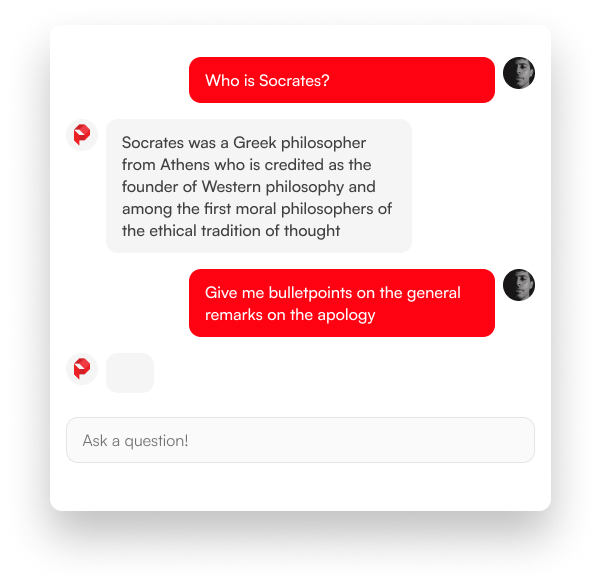
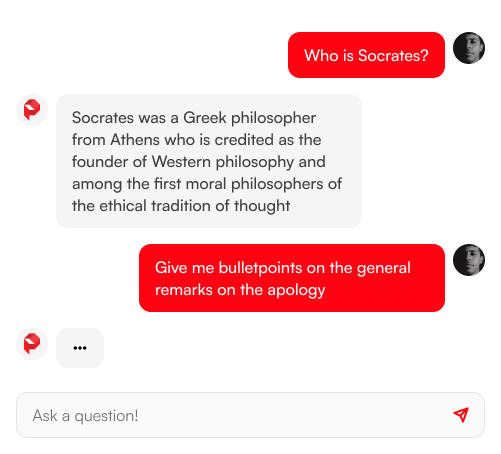
💲 Created pricing page

diff --git a/src/app/page.tsx b/src/app/page.tsx
@@ -3,6 +3,7 @@ import MaxWidthWrapper from "@/components/MaxWidthWrapper";
 import Link from "next/link";
 import Image from "next/image";
 import appMockup from "@/assets/app-mockup.jpg";
+import chatMockup from "@/assets/chat-mockup.jpg";
 import Label from "@/components/ui/Label";
 
 import Card from "@/components/ui/Card";
@@ -13,6 +14,7 @@ import upload from "@/assets/icons/upload.svg";
 import chat from "@/assets/icons/chat.svg";
 import Button from "@/components/ui/Button";
 import arrow from "@/assets/icons/arrow-right.svg";
+import PricingCard from "@/components/PricingCard";
 
 export default function Home() {
   return (
@@ -37,10 +39,10 @@ export default function Home() {
           alt="app-mockup"
         />
       </section>
-      <section className="py-12 flex flex-col items-center gap-8">
+      <section className="py-12 lg:py-24 flex flex-col items-center gap-12 lg:gap-24">
         <div className="flex flex-col items-center">
           <Label className="mb-4">Onboarding</Label>
-          <p className="font-bold text-3xl">How does it work?</p>
+          <p className="font-bold text-3xl lg:text-6xl">How does it work?</p>
         </div>
         <div className="flex flex-col gap-8 max-w-[868px]">
           <div className="flex flex-col gap-8 md:flex-row">
@@ -72,7 +74,7 @@ export default function Home() {
               </div>
             </Card>
           </div>
-          <Card className="bg-primary">
+          <Card className="bg-primary relative overflow-hidden ">
             <Image src={chat} alt="user" />
             <div className="flex flex-col gap-4 max-w-sm items-start">
               <h3 className="font-bold text-white text-2xl">
@@ -83,16 +85,25 @@ export default function Home() {
                 less than a minute.
               </p>
               <Button variant="tertiary">Get started</Button>
+              <Image
+                className="hidden md:block absolute right-0 rounded-s-xl top-20 object-cover w-auto h-full shadow-2xl"
+                src={chatMockup}
+                alt="chat-mockup"
+              />
             </div>
           </Card>
         </div>
       </section>
-      <section className="py-12 flex flex-col items-center ">
-        <div className="flex flex-col items-center">
+      <section className="py-12 lg:py-24 flex flex-col items-center gap-24">
+        <div className="flex flex-col items-center ">
           <Label className="mb-4">Pricing</Label>
-          <p className="font-bold text-3xl text-center">
+          <p className="font-bold text-3xl text-center lg:text-6xl">
             Choose the right plan for your usage.
           </p>
+        </div>
+        <div className="flex gap-8 flex-col md:flex-row ">
+          <PricingCard type="free" />
+          <PricingCard type="pro" price={14} previousPrice="20" />
         </div>
       </section>
     </MaxWidthWrapper>

diff --git a/src/components/PricingCard.tsx b/src/components/PricingCard.tsx
@@ -1,0 +1,82 @@
+import { FC } from "react";
+import Button from "./ui/Button";
+import Image from "next/image";
+
+import check from "@/assets/icons/check.svg";
+import { cn } from "@/lib/utils";
+
+interface PricingCardProps {
+  className?: string;
+  price?: number;
+  previousPrice?: string;
+  type: "free" | "pro";
+}
+
+const PricingCard: FC<PricingCardProps> = ({
+  className,
+  type,
+  price,
+  previousPrice,
+}) => {
+  return (
+    <div
+      className={cn(
+        {
+          "min-w-[300px] rounded-3xl bg-neutral-100 p-6 h-[512px] flex flex-col justify-between":
+            type === "free",
+          "min-w-[300px] rounded-3xl bg-primary p-6 h-[512px] flex flex-col justify-between text-white":
+            type === "pro",
+        },
+        className
+      )}
+    >
+      <div className="flex flex-col gap-4 w-full">
+        <div className="flex flex-col gap-6">
+          <h3 className="font-bold text-2xl">
+            {type === "free" ? "Free" : "Premium"}
+          </h3>
+          <p className="font-bold flex items-center gap-1">
+            {previousPrice && (
+              <span className="flex items-center gap-1 text-[#FFCCCF]">
+                <span className=" line-through text-6xl">{previousPrice}</span>
+                <sup> $ </sup>
+              </span>
+            )}
+            <span className="text-6xl">{price ? price : 0}</span> <sup>$ </sup>{" "}
+            /month
+          </p>
+        </div>
+        <div
+          className={
+            type === "free"
+              ? "w-full h-[1px] bg-neutral-300"
+              : type === "pro"
+              ? "w-full h-[1px] bg-[#FFCCCF]"
+              : ""
+          }
+        />
+        <ul className="flex flex-col items-start gap-2">
+          <li className="flex gap-2 justify-center">
+            <Image src={check} alt="a" /> Lorem ipsum dolor sit.
+          </li>{" "}
+          <li className="flex gap-2 justify-center">
+            <Image src={check} alt="a" /> Lorem ipsum dolor sit.
+          </li>{" "}
+          <li className="flex gap-2 justify-center">
+            <Image src={check} alt="a" /> Lorem ipsum dolor sit.
+          </li>
+        </ul>
+      </div>
+      <Button
+        variant={
+          type === "free" ? "longRed" : type === "pro" ? "longWhite" : null
+        }
+        className="w-full "
+      >
+        Get Started
+      </Button>
+    </div>
+  );
+};
+
+export default PricingCard;

diff --git a/src/components/Navbar.tsx b/src/components/Navbar.tsx
@@ -17,15 +17,19 @@ const Navbar: FC<NavbarProps> = ({}) => {
   useEffect(() => {
     if (size.width && size.width > 768) {
       toggleNav(true);
+    } else if (size.width && size.width < 768) {
+      toggleNav(false);
     }
   }, [size]);
   return (
     <header
-      className={`w-full absolute px-4 top-0 h-72 pt-8 left-0 flex md:flex-row items-start justify-between lg:px-20 ${
-        navbar && "bg-white md:bg-transparent"
+      className={`w-full absolute px-4 top-0  pt-8 left-0 flex md:flex-row items-start justify-between lg:px-20 ${
+        navbar && "bg-white md:bg-transparent md:h-auto h-72 "
       }`}
     >
-      <Image src={logo} alt="logo" className="w-8 md:w-auto" />
+      <Link href="/">
+        <Image src={logo} alt="logo" className="w-8 md:w-auto" />
+      </Link>
 
       <nav className="flex flex-col relative items-start gap-2 justify-end md:gap-10">
         <Image
@@ -36,7 +40,7 @@ const Navbar: FC<NavbarProps> = ({}) => {
         />
         {navbar && (
           <ul className="flex flex-col gap-4 items-end w-[120px] md:w-auto absolute top-12  right-0 md:relative md:top-0 md:flex-row md:items-center md:gap-10">
-            <Link className="font-bold" href="/">
+            <Link className="font-bold" href="/pricing">
               {" "}
               Pricing
             </Link>

diff --git a/src/app/pricing/page.tsx b/src/app/pricing/page.tsx
@@ -1,0 +1,25 @@
+import MaxWidthWrapper from "@/components/MaxWidthWrapper";
+import PricingCard from "@/components/PricingCard";
+
+export default function Pricing() {
+  return (
+    <MaxWidthWrapper className="bg-red-400">
+      <section className="flex flex-col items-center mt-[192px] mb-12 gap-24">
+        <div>
+          <h1 className="mb-5 font-bold text-6xl text-center md:text-6xl lg:tracking-[-4.8px] lg:leading-[95%] lg:max-w-5xl">
+            Pricing.
+          </h1>
+          <p className="mb-8 text-center lg:max-w-2xl">
+            PdPal allows you to have conversations with any PDF document. Simply
+            upload your file and start asking questions right away.
+          </p>
+        </div>
+
+        <div className="flex gap-8 flex-col md:flex-row ">
+          <PricingCard type="free" />
+          <PricingCard type="pro" price={14} previousPrice="20" />
+        </div>
+      </section>
+    </MaxWidthWrapper>
+  );
+}

diff --git a/src/components/ui/Button.tsx b/src/components/ui/Button.tsx
@@ -5,14 +5,16 @@ import { ButtonHTMLAttributes, forwardRef } from "react";
 //icons
 
 export const buttonVariants = cva(
-  "px-4 py-2 rounded-full font-bold flex gap-2 items-center",
+  "px-4 py-2  font-bold flex gap-2 items-center justify-center transition-all duration-200 ease-in-out",
   {
     variants: {
       variant: {
-        primary: "bg-primary text-white",
+        primary: "bg-primary text-white rounded-full",
         secondary:
-          "text-primary hover:bg-primaryLight dark:bg-dark-20 dark:text-light-90 dark:hover:bg-dark-30",
-        tertiary: "bg-white text-primary",
+          "text-primary hover:bg-primaryLight dark:bg-dark-20 dark:text-light-90 dark:hover:bg-dark-30 rounded-full",
+        tertiary: "bg-white text-primary rounded-full",
+        longRed: "bg-primary text-white rounded-lg ",
+        longWhite: "bg-white text-primary rounded-lg ",
       },
     },
     defaultVariants: {

diff --git a/src/components/ui/Label.tsx b/src/components/ui/Label.tsx
@@ -10,7 +10,7 @@ const Label: FC<LabelProps> = ({ className, children }) => {
   return (
     <h2
       className={cn(
-        "text-primary font-bold uppercase text-xs tracking-[2.4px] ",
+        "text-primary font-black uppercase text-xs tracking-[2.4px] ",
         className
       )}
     >
